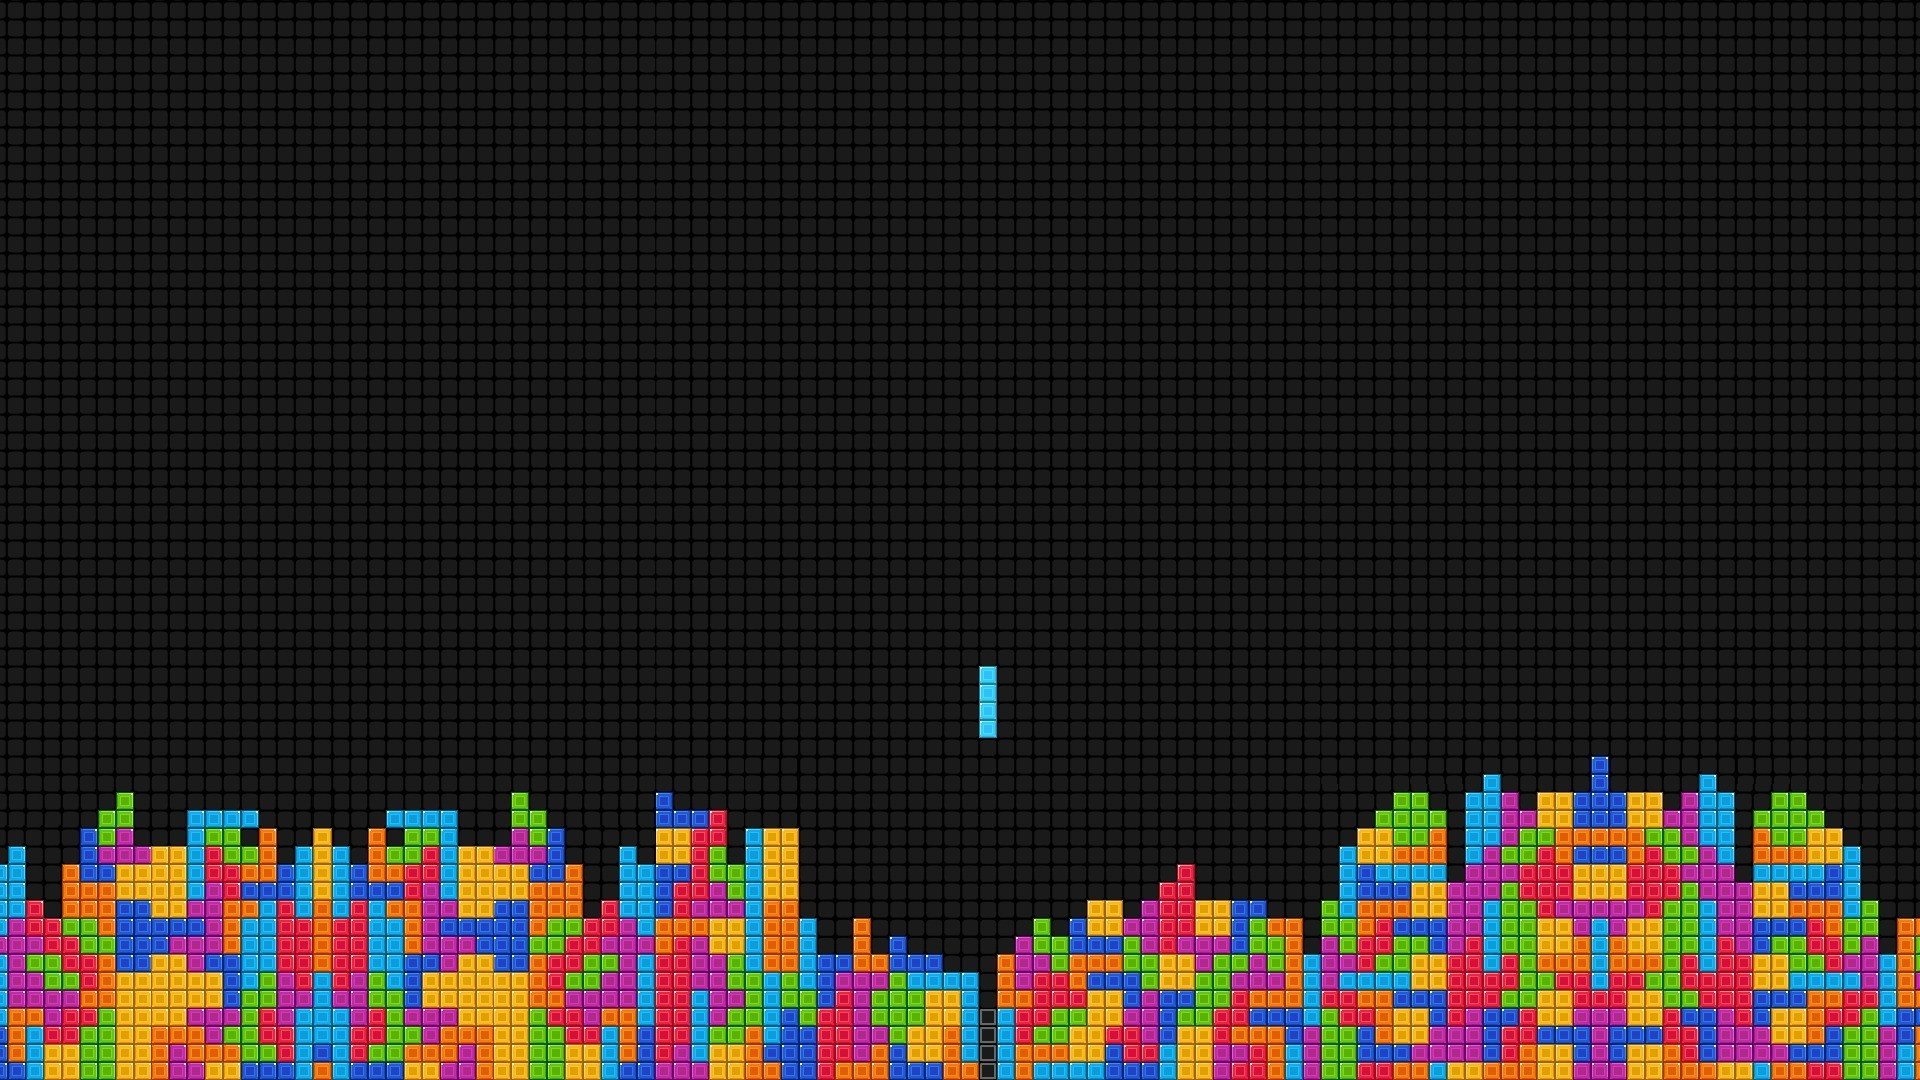
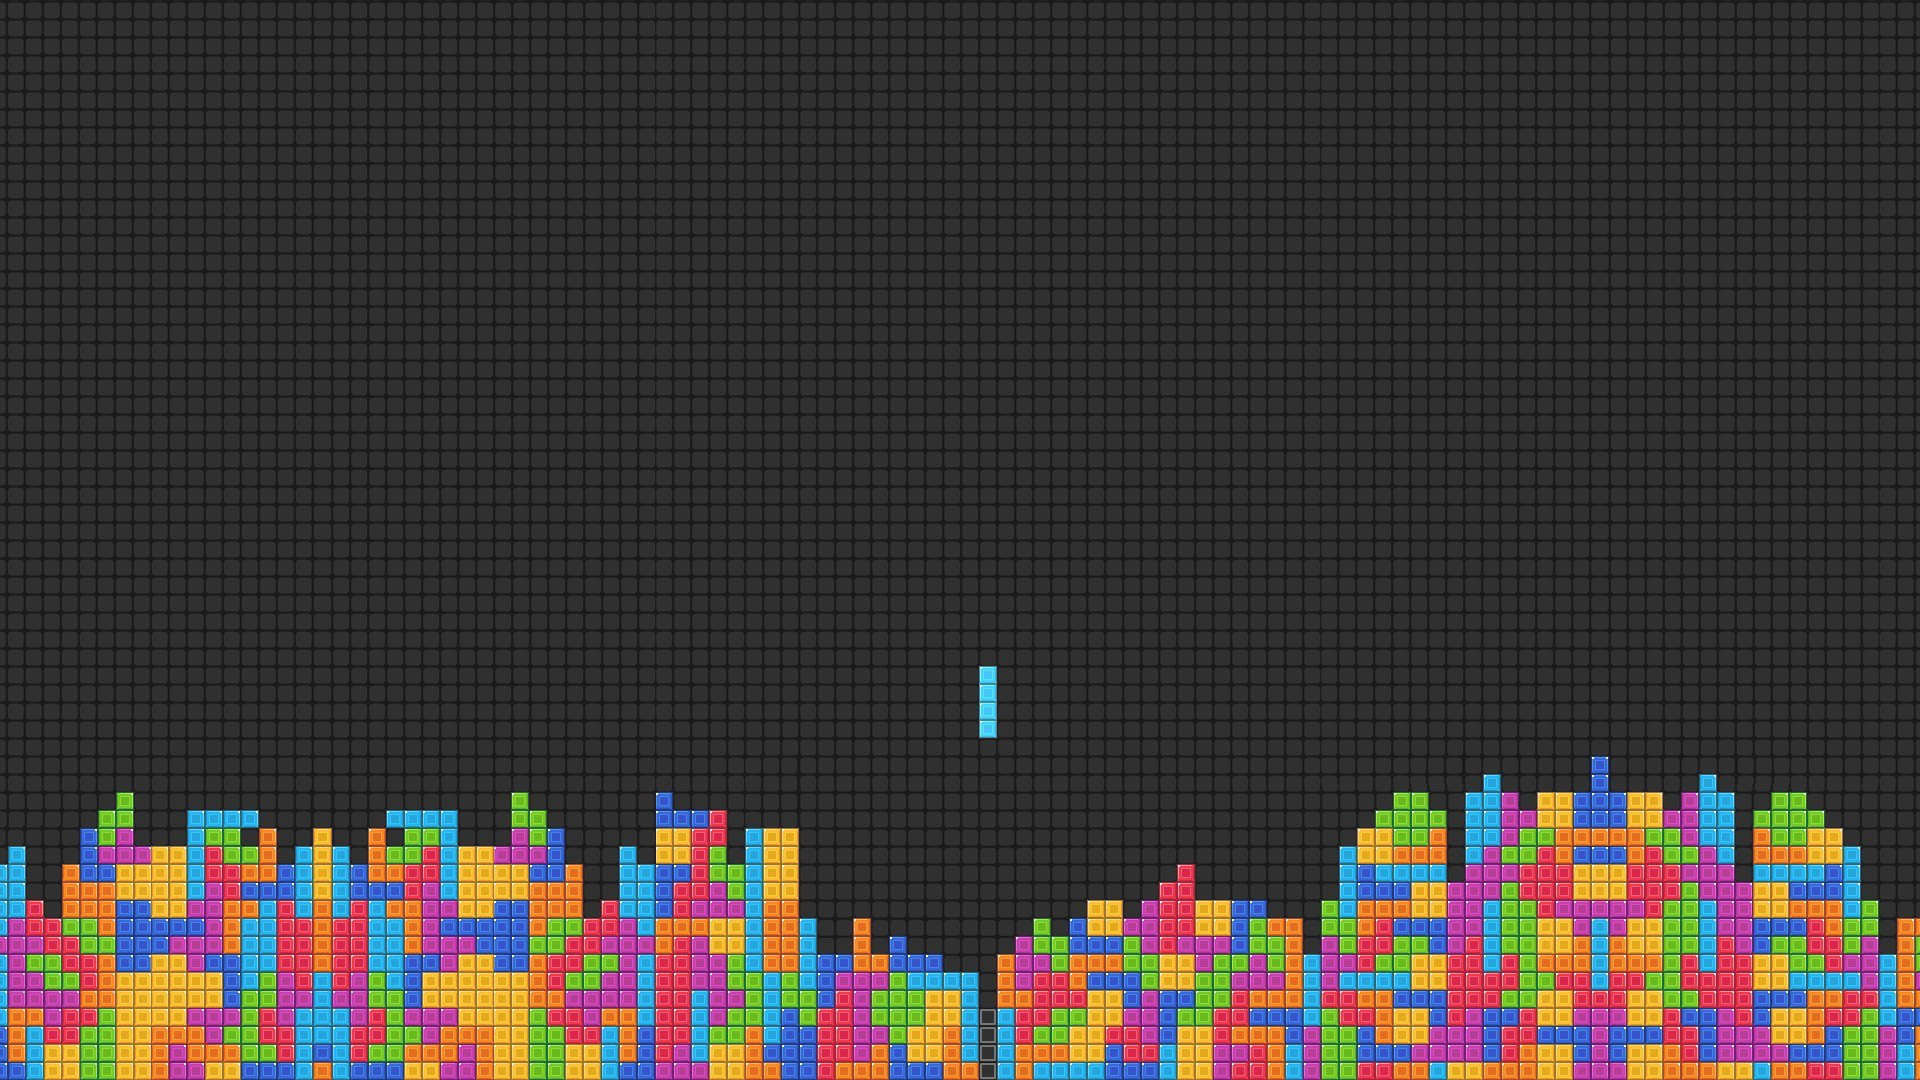
Changed Pictures
Made background less opaue
Made Github icon look better
Added more stuff to projexts xml
added new TODO
added some links to test format for project template

Changed region(s): [[0.0, 0.0, 1.0, 1.0]]

diff --git a/projectTemplate.html b/projectTemplate.html
@@ -55,11 +55,13 @@
 						<h3>Technologies</h3>
 						<p>Programming languages...etc...</p>
 						<h3>Links</h3>
-						<p>Github....Youtube...relevant stuff</p>
+						<p>						<a href="link.html" class="label label-info" style="font-size:20px; margin-top:50px;"><span class="glyphicon glyphicon-pencil"></span>Code on Github</a>
+						<a href="link.html" class="label label-info" style="font-size:20px;"><span class="glyphicon glyphicon-download"></span>Download Project</a></p>
 					</div>
 					<!-- ./col -->
 					<div class="col-md-5">
-						<iframe width="420" height="315" src="http://www.youtube.com/embed/HWdZ8sP5Sss" style="margin-top:20px;"></iframe>
+						<iframe width="420" height="315" src="http://www.youtube.com/embed/HWdZ8sP5Sss" style="margin-top:20px;"></iframe><br>
+
 					</div>
 				</div>
 				<!-- ./row -->

diff --git a/projectScript.js b/projectScript.js
@@ -1,3 +1,5 @@
+//TODO add filters
+
 var main = function() {
 	loadProjects();
 
@@ -17,6 +19,8 @@ var main = function() {
 		$(this).slideUp(200); 
 	});
 };
+
+
 
 function printErrorMsg(XMLHttpRequest, errorMessage, errorThrown) {
 	alert("LOAD FAILED!: " + errorMessage + ":" + errorThrown);
